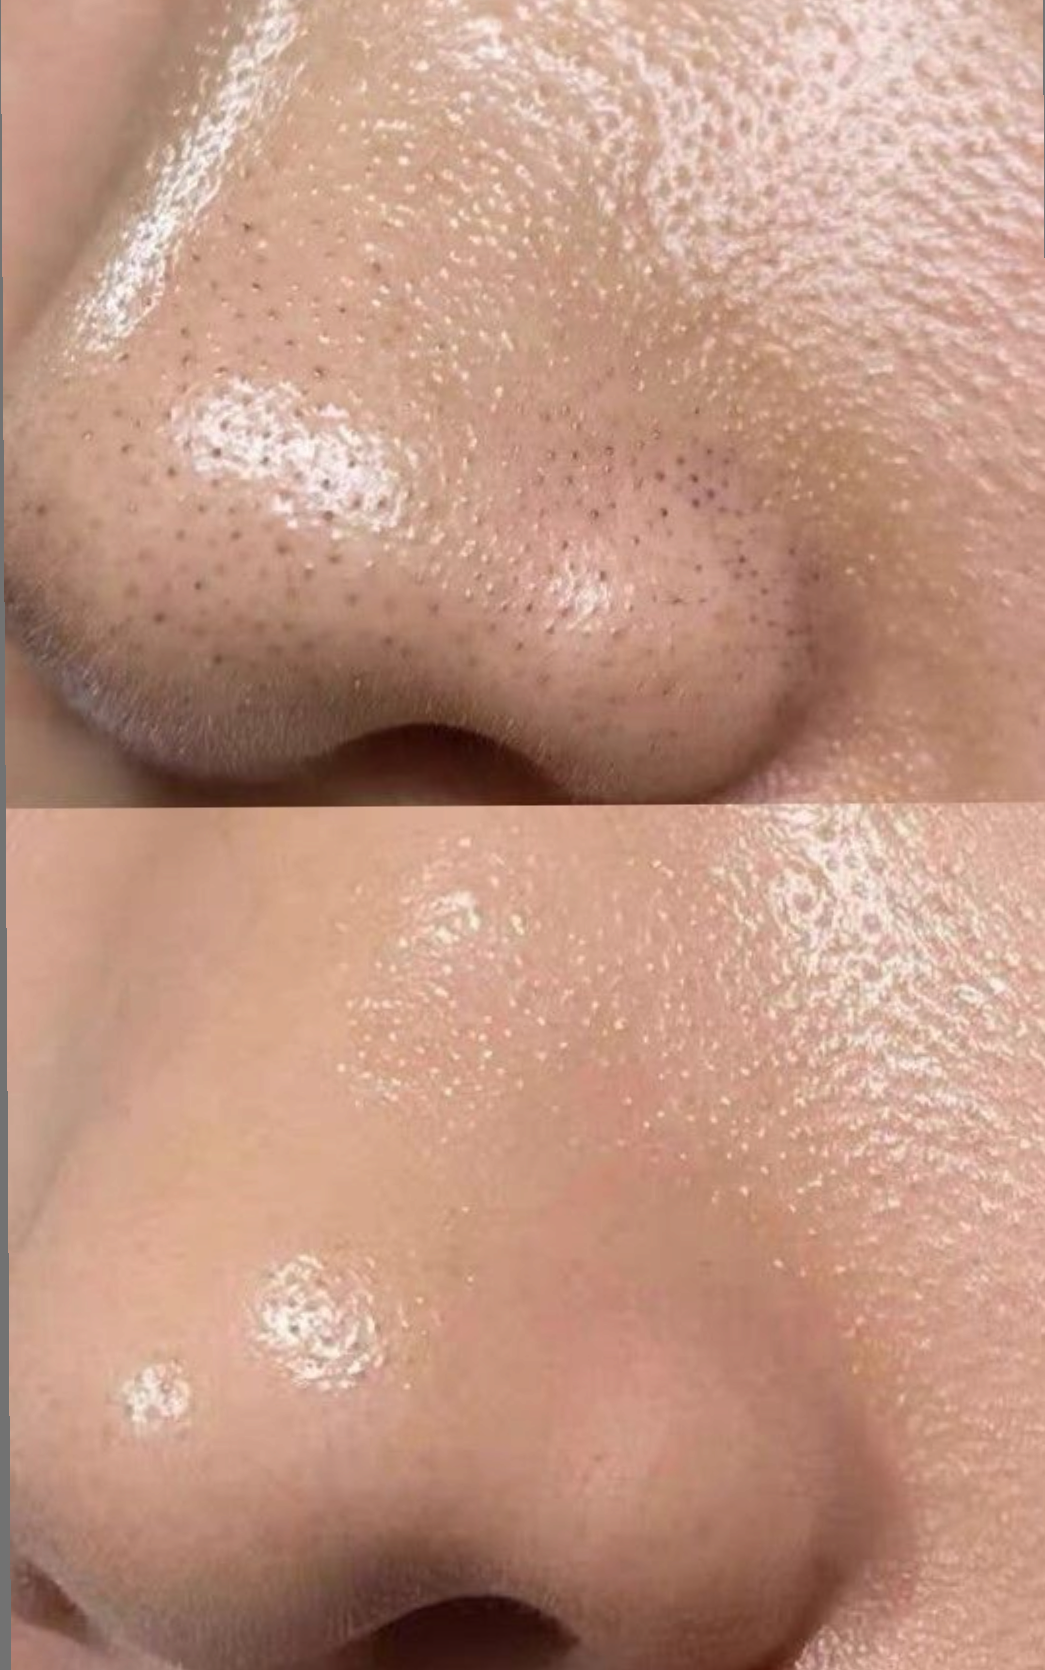
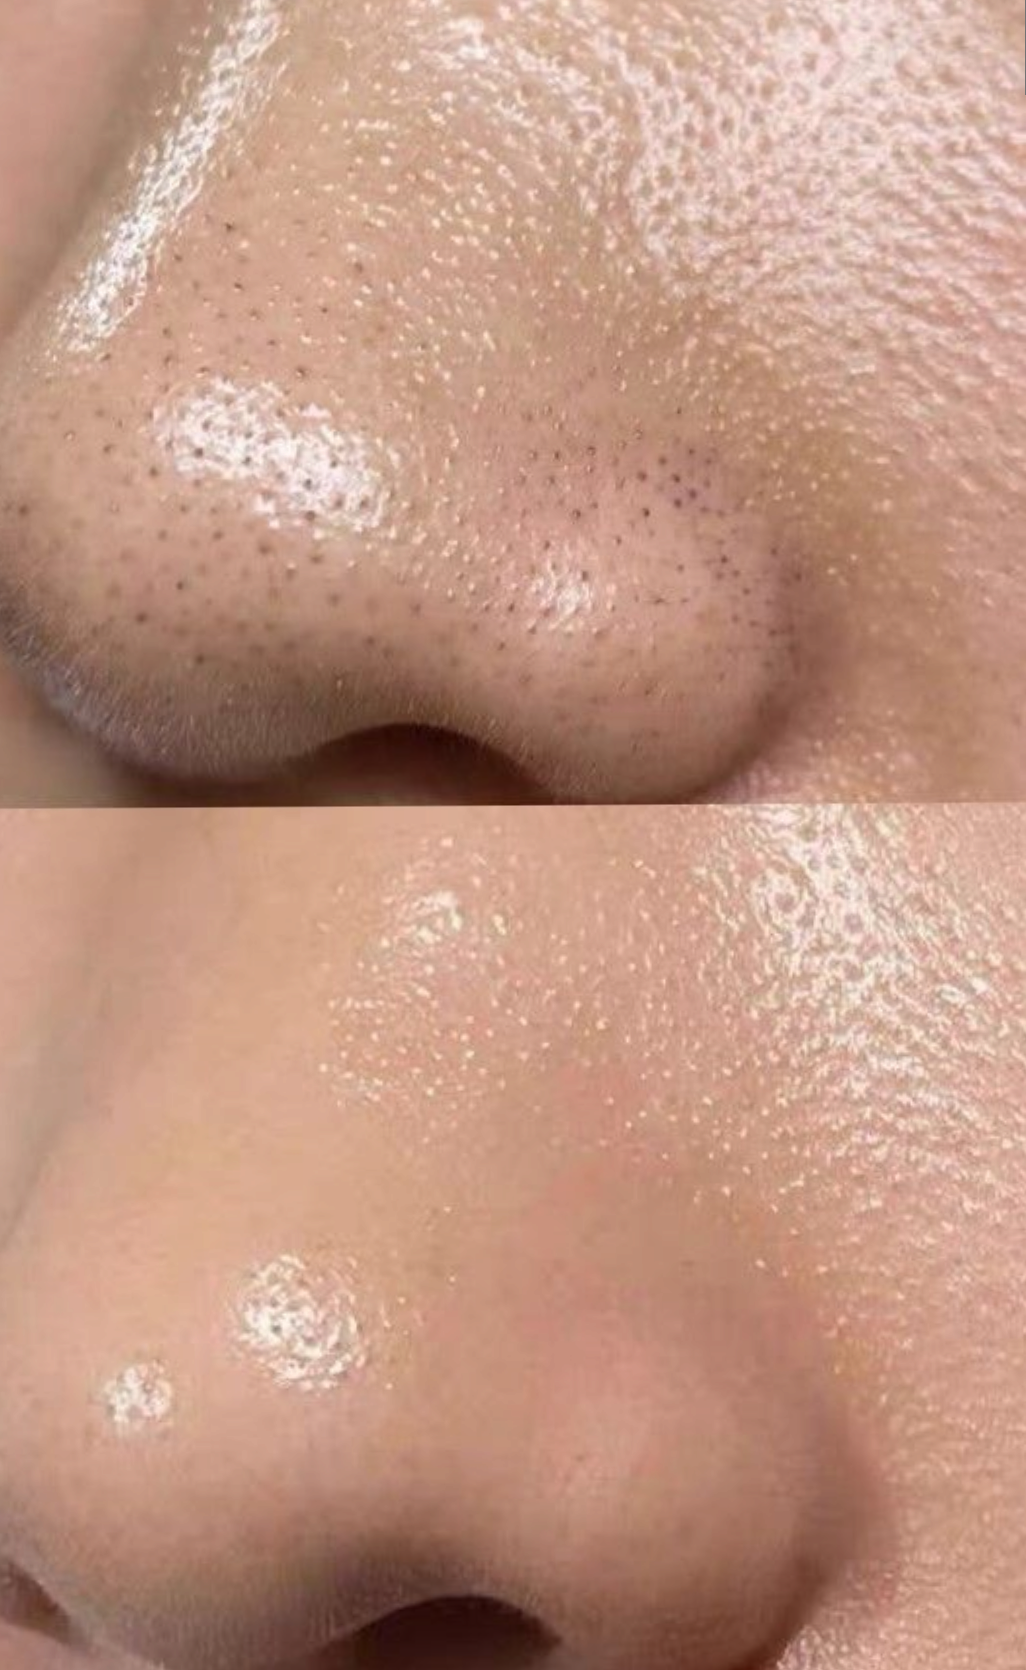
update niacinamide page Pics

diff --git a/lib/product-content.ts b/lib/product-content.ts
@@ -203,13 +203,7 @@ export const PRODUCT_CONTENT: Record<string, ProductContent> = {
           "Les points noirs du nez sont nettement moins visibles et les pores paraissent resserrés.",
         tags: ["Pores désobstrués", "Nez plus net", "Sébum régulé"],
       },
-      {
-        src: "/images/products/niacinamide/resultat-2.jpg",
-        title: "Rougeurs",
-        description:
-          "La peau est visiblement apaisée : les rougeurs diffuses s'atténuent et le teint gagne en homogénéité.",
-        tags: ["Rougeurs apaisées", "Teint unifié", "Peau confortable"],
-      },
+      
       {
         src: "/images/products/niacinamide/resultat-3.jpg",
         title: "Grain de peau",
